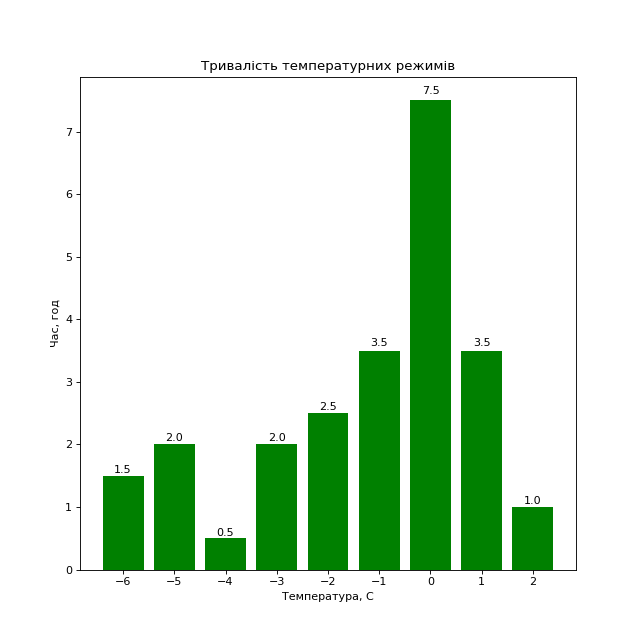
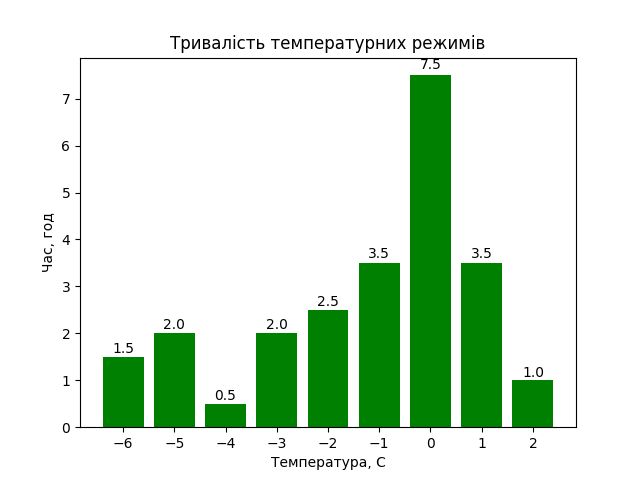
changes

diff --git a/weatherproject/main/templates/main/formGraphics.html b/weatherproject/main/templates/main/formGraphics.html
@@ -14,7 +14,7 @@
 
 {% block content %}
 <main class="container">
-    <form method="POST" action="">{% csrf_token %}
+    <form method="POST" action="graphic_info">{% csrf_token %}
 <!--        {{ form.as_p }}-->
 {{ form.non_field_errors }}
 {% for f in form %}
@@ -26,12 +26,11 @@
 <!--        <button type="submit">Ok</button>-->
     </form>
 
-{% if submitbutton == "Сформувати графіки" %}
-    <h2>{{ city }}</h2>
-    <p>З <span class="sp">{{ date1 }}</span></p>
-    <p>До <span class="sp">{{ date2 }}</span></p>
-    <img src="static/img/logo3.svg" alt="">
-{% endif %}
+<!--{% if submitbutton == "Сформувати графіки" %}-->
+<!--    <h2>{{ city }}</h2>-->
+<!--    <p>З <span class="sp">{{ date1 }}</span></p>-->
+<!--    <p>До <span class="sp">{{ date2 }}</span></p>-->
+<!--{% endif %}-->
 
 </main>
 <!--<script>'undefined'=== typeof _trfq || (window._trfq = []);'undefined'=== typeof _trfd && (window._trfd=[]),_trfd.push({'tccl.baseHost':'secureserver.net'}),_trfd.push({'ap':'cpsh'},{'server':'p3plcpnl0769'}) // Monitoring performance to make your website faster. If you want to opt-out, please contact web hosting support.</script>-->

diff --git a/weatherproject/main/templates/main/layout.html b/weatherproject/main/templates/main/layout.html
@@ -104,7 +104,7 @@
             <li><i class="fa-regular fa-house"></i>Погода</li>
         </a>
         <a href="{% url 'autorization' %}">
-            <li><i class="fa-regular fa-house"></i>Вхід для працівника</li>
+            <li><i class="fa-regular fa-house"></i>Вхід</li>
         </a>
         <a href="{% url 'graphics' %}">
             <li><i class="fa-regular fa-house"></i>Графіки</li>

diff --git a/weatherproject/main/templates/main/graphic_info.html b/weatherproject/main/templates/main/graphic_info.html
@@ -12,4 +12,8 @@
     <h2>{{ city }}</h2>
     <p>З <span class="sp">{{ date1 }}</span></p>
     <p>До <span class="sp">{{ date2 }}</span></p>
+<div><img src="{% static 'wea/img/demo_1.png' %}" alt="1"></div>
+<div><img src="{% static 'wea/img/demo_2.png' %}" alt="2"></div>
+<div><img src="{% static 'wea/img/demo_3.png' %}" alt="3"></div>
+<div><img src="{% static 'wea/img/demo_4.png' %}" alt="4"></div>
 {% endblock %}

diff --git a/weatherproject/main/templates/main/contacts.html b/weatherproject/main/templates/main/contacts.html
@@ -4,5 +4,5 @@
 {% block title %}Контакти{% endblock %}
 
 {% block content %}
-
+<img src="{% static 'wea/img/demo_4.png' %}" alt="aa">
 {% endblock %}

diff --git a/weatherproject/main/graphics.py b/weatherproject/main/graphics.py
@@ -33,7 +33,7 @@ def autolabel(rects, labels=None,  height_factor=1.01):
 def graphics_2(city, date_1, date_2):
     date_1, date_2 = format_data(date_1, date_2)
     sql = "SELECT T, count(*) FROM data_{:} WHERE date_time>={:} and date_time<={:} GROUP BY T ORDER BY T ;".format(city, date_1, date_2)
-    connector = sqlite3.connect("../db.sqlite3")
+    connector = sqlite3.connect("db.sqlite3")
     s = connector.execute(sql).fetchall()
     s = np.array(s)
     plt.title('Тривалість температурних режимів')
@@ -45,7 +45,7 @@ def graphics_2(city, date_1, date_2):
     ax = plt.gca()
     autolabel(ax.patches, s[:,1] / 4, height_factor=1.01)
     # plt.show()
-    plt.savefig("demo_2.png")
+    plt.savefig("static/wea/img/demo_2.png")
 
     plt.gcf().clear()
     return s
@@ -55,7 +55,7 @@ def graphics_4(city, date_1, date_2):
     date_1, date_2 = format_data(date_1, date_2)
     sql = "SELECT FF, count(*) FROM data_{:} WHERE date_time>={:} and date_time<={:} GROUP BY FF ORDER BY FF;".format(
         city, date_1, date_2)
-    connector = sqlite3.connect("../db.sqlite3")
+    connector = sqlite3.connect("db.sqlite3")
     s = connector.execute(sql).fetchall()
     s = np.array(s)
 
@@ -66,7 +66,7 @@ def graphics_4(city, date_1, date_2):
     ax=plt.gca()
     ax.grid(axis='y')
     ax.bar(s[:, 0], s[:, 1]/4)
-    plt.savefig("demo_4.png")
+    plt.savefig('static/wea/img/demo_4.png')
     plt.gcf().clear()
     return s
 
@@ -75,7 +75,7 @@ def graphics_1(city, date_1, date_2):
     date_1, date_2 = format_data(date_1, date_2)
     sql = "SELECT T, date_time FROM data_{:} WHERE date_time>={:} and date_time<={:} ORDER BY date_time;".format(
         city, date_1, date_2)
-    connector = sqlite3.connect("../db.sqlite3")
+    connector = sqlite3.connect("db.sqlite3")
     s = connector.execute(sql).fetchall()
     data = np.array(s)
     fig = plt.figure(figsize=(7.5, 10.5))
@@ -94,7 +94,7 @@ def graphics_1(city, date_1, date_2):
 
     plt.xticks(np.arange(0, len(data[:,1])/2+step, step=step), rotation=45)
     plt.width=len(data[:,1])
-    plt.savefig("demo_1.png")
+    plt.savefig("static/wea/img/demo_1.png")
     plt.gcf().clear()
     return s
 
@@ -103,7 +103,7 @@ def graphics_3(city, date_1, date_2):
     date_1, date_2 = format_data(date_1, date_2)
     sql = "SELECT FF, dd FROM data_{:} WHERE date_time>={:} and date_time<={:};".format(
         city, date_1, date_2)
-    connector = sqlite3.connect("../db.sqlite3")
+    connector = sqlite3.connect("db.sqlite3")
     s = connector.execute(sql).fetchall()
     ax = WindroseAxes.from_ax()
     data_t = []
@@ -115,15 +115,15 @@ def graphics_3(city, date_1, date_2):
 
     ax.bar(data_c, data_t, normed=True, opening=0.8, edgecolor='white')
     ax.set_legend()
-    plt.savefig("demo_3.png")
+    plt.savefig("static/wea/img/demo_3.png")
     plt.gcf().clear()
     return s
 
-
-graphics_2("kyiv", "2012-01-01 00:00", "2012-01-01 23:59")
-graphics_1("kyiv", "2012-01-01 00:00", "2012-01-01 23:59")
-graphics_3("kyiv", "2012-01-01 00:00", "2012-01-04 23:59")
-graphics_4("kyiv", "2012-01-01 00:00", "2012-01-01 23:59")
+#
+# graphics_2("kyiv", "2012-01-01 00:00", "2012-01-01 23:59")
+# graphics_1("kyiv", "2012-01-01 00:00", "2012-01-01 23:59")
+# graphics_3("kyiv", "2012-01-01 00:00", "2012-01-04 23:59")
+# graphics_4("kyiv", "2012-01-01 00:00", "2012-01-01 23:59")
 
 
 

diff --git a/weatherproject/main/views.py b/weatherproject/main/views.py
@@ -56,8 +56,10 @@ def graphics(request):
                'date1': date1, 'submitbutton': submitbutton,
                'date2': date2}
     # print(city)
-    # print(date1.strftime("%Y-%m-%d %H:%M"))
-    graphics_4(city, date1.strftime("%Y-%m-%d %H:%M"), date1.strftime("%Y-%m-%d %H:%M"))
+    # print(date1)
+    # print(date2)
+    # graphics_4('lviv', '2012-01-01 00:00', '2012-12-01 00:00')
+    # graphics_4(city,date1,date2)
     return render(request, 'main/formGraphics.html', context)
 
 
@@ -80,12 +82,18 @@ def graphic_info(request):
         date1 = form.cleaned_data.get("date1")
         date2 = form.cleaned_data.get("date2")
         # print(form.cleaned_data)
-    # formatDate1 = date1.strftime("%Y-%m-%d %H:%M:%S")
-    # formatDate2 = date2.strftime("%Y-%m-%d %H:%M:%S")
 
     context = {'form': form, 'city': city,
                'date1': date1,
                'date2': date2}
+
+    print(city)
+    print(date1)
+    print(date2)
+    graphics_3(city, date1, date2)
+    graphics_2(city, date1, date2)
+    graphics_4(city, date1, date2)
+    graphics_1(city, date1, date2)
     return render(request, 'main/graphic_info.html', context)
 
 

diff --git a/weatherproject/main/forms.py b/weatherproject/main/forms.py
@@ -31,9 +31,13 @@ class GraphicForm(forms.Form):
         'max': '2012-12-12 23:59'
     }))
 
+    def clean_date1(self):
+        date1 = self.cleaned_data['date1']
+        return date1.strftime("%Y-%m-%d %H:%M")
+
     def clean_date2(self):
         date2 = self.cleaned_data['date2']
         date1 = self.cleaned_data['date1']
-        if (date2<date1):
+        if (date2.strftime("%Y-%m-%d %H:%M") < date1):
             raise ValidationError('Друга дата має бути пізніше першої')
-        return date2
+        return date2.strftime("%Y-%m-%d %H:%M")
